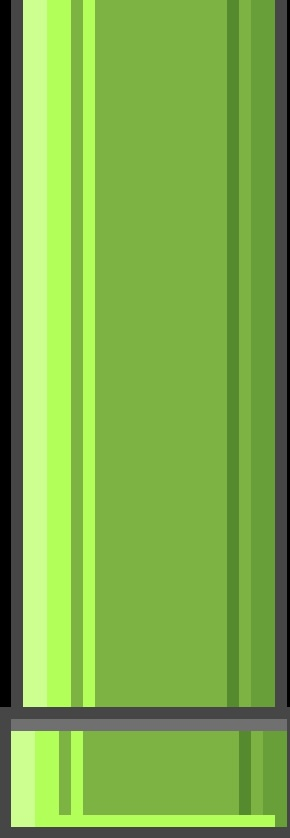
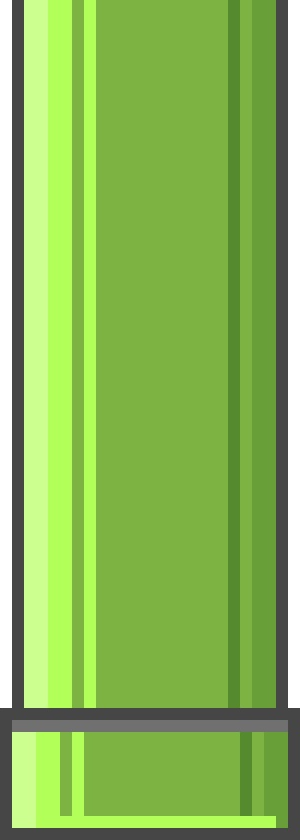
It looks better with a background

Changed region(s): [[0.2793, 0.0, 1.0, 0.9928], [0.0, 0.0, 0.0931, 0.9928], [0.1552, 0.0, 0.2483, 0.9928]]

diff --git a/FlappyBirdEnv.py b/FlappyBirdEnv.py
@@ -21,9 +21,11 @@ class FlappyBirdEnv(gym.Env):
         self.bird_image = pygame.image.load("./assets/mr-flappy.png")
         self.top_pipe_image = pygame.image.load("./assets/mr-pipe copy.png")
         self.bottom_pipe_image = pygame.image.load("./assets/mr-pipe.png")
+        self.background_image = pygame.image.load("./assets/mr-background.png")
         self.bird_image = pygame.transform.scale(self.bird_image, (BIRD_WIDTH, BIRD_HEIGHT))
         self.top_pipe_image = pygame.transform.scale(self.top_pipe_image, (PIPE_WIDTH, PIPE_HEIGHT))
         self.bottom_pipe_image = pygame.transform.scale(self.bottom_pipe_image, (PIPE_WIDTH, PIPE_HEIGHT))
+        self.background_image = pygame.transform.scale(self.background_image, (SCREEN_WIDTH, SCREEN_HEIGHT))
 
         self.pipes_passed = 0
         
@@ -119,7 +121,8 @@ class FlappyBirdEnv(gym.Env):
             self.screen.blit(self.bottom_pipe_image, (pipe["x"], bottom_pipe_y))
 
     def render(self, mode="human"):
-        self.screen.fill((0, 200, 0))
+        # Draw the background image
+        self.screen.blit(self.background_image, (0, 0))
 
         # Draw bird
         self.draw_bird()
